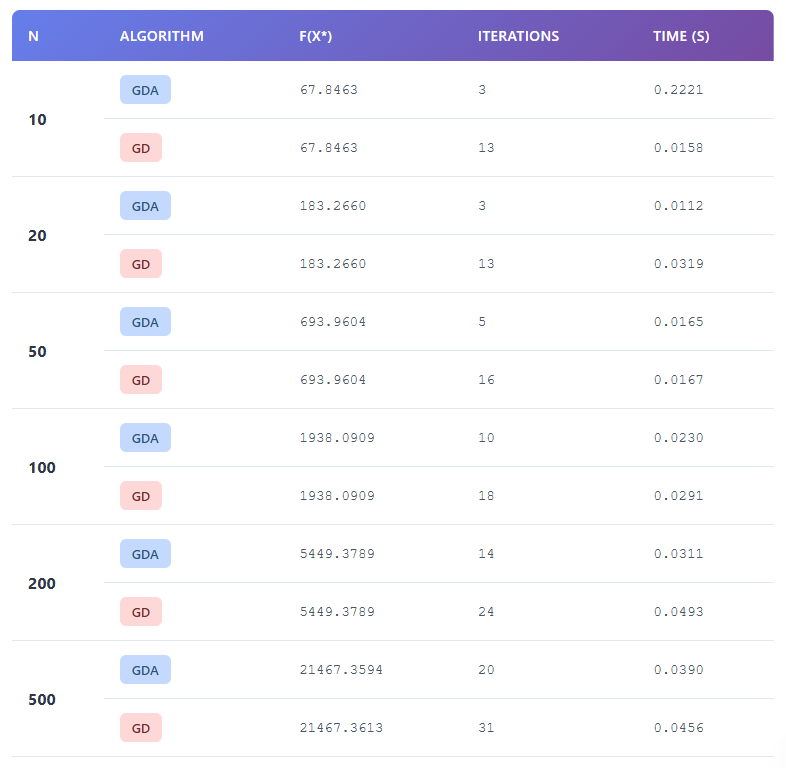
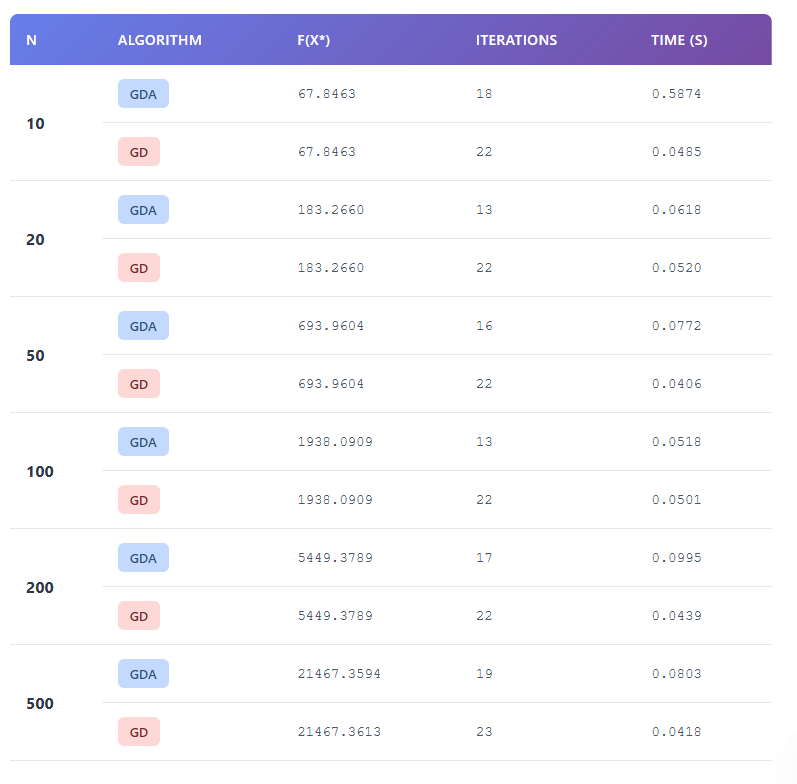
fix ex3

diff --git a/src/examples/compare_convergence_example3.py b/src/examples/compare_convergence_example3.py
@@ -263,11 +263,11 @@ Convergence criterion: tolerance = 1e-6
         
         results_gd.append(hist_gd)
         
-        # Get actual number of iterations (length of history)
-        gda_iters = len(hist_gda['iterations'])
-        gd_iters = len(hist_gd['iterations'])
+        # Get actual convergence iterations (when ||x_new - x|| < tol)
+        gda_iters = hist_gda['converged_iter'] if hist_gda['converged_iter'] is not None else len(hist_gda['iterations']) - 1
+        gd_iters = hist_gd['converged_iter'] if hist_gd['converged_iter'] is not None else len(hist_gd['iterations']) - 1
         
-        # Print results with actual iteration count
+        # Print results with actual convergence iteration count
         print(f"{n:<8}{'GDA':<12}{hist_gda['obj'][-1]:<15.4f}{gda_iters:<12}{hist_gda['time'][-1]:<12.4f}")
         print(f"{' ':<8}{'GD':<12}{hist_gd['obj'][-1]:<15.4f}{gd_iters:<12}{hist_gd['time'][-1]:<12.4f}")
         print()
@@ -286,8 +286,8 @@ Convergence criterion: tolerance = 1e-6
     print("-" * 80)
     
     for idx, n in enumerate(n_values):
-        gda_iters = len(results_gda[idx]['iterations'])
-        gd_iters = len(results_gd[idx]['iterations'])
+        gda_iters = results_gda[idx]['converged_iter'] if results_gda[idx]['converged_iter'] is not None else len(results_gda[idx]['iterations']) - 1
+        gd_iters = results_gd[idx]['converged_iter'] if results_gd[idx]['converged_iter'] is not None else len(results_gd[idx]['iterations']) - 1
         speedup = gd_iters / gda_iters if gda_iters > 0 else 0
         print(f"{n:<10}{gda_iters:<15}{gd_iters:<15}{speedup:<15.2f}x")
     
